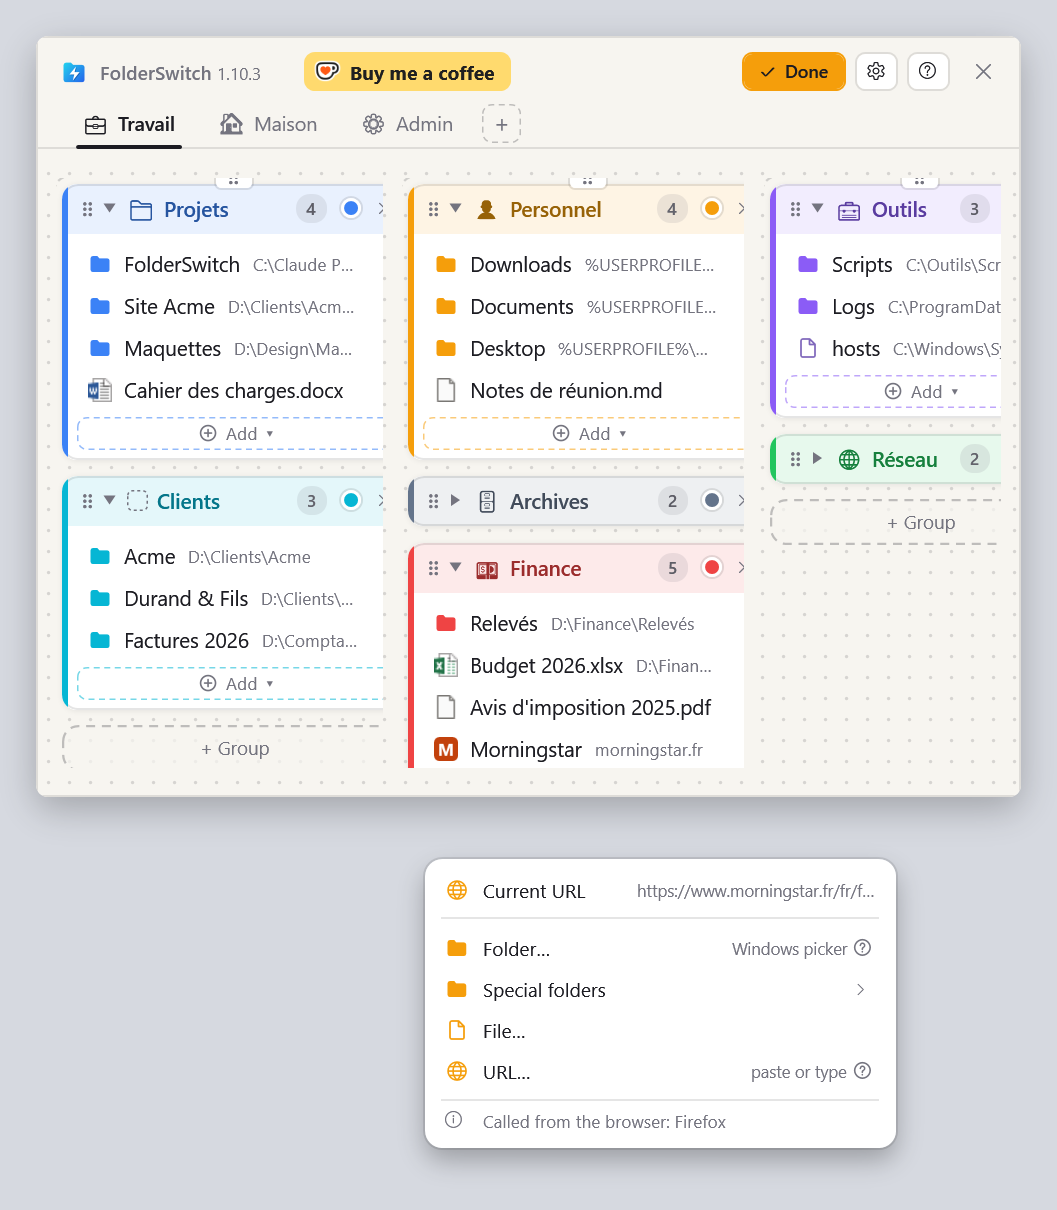
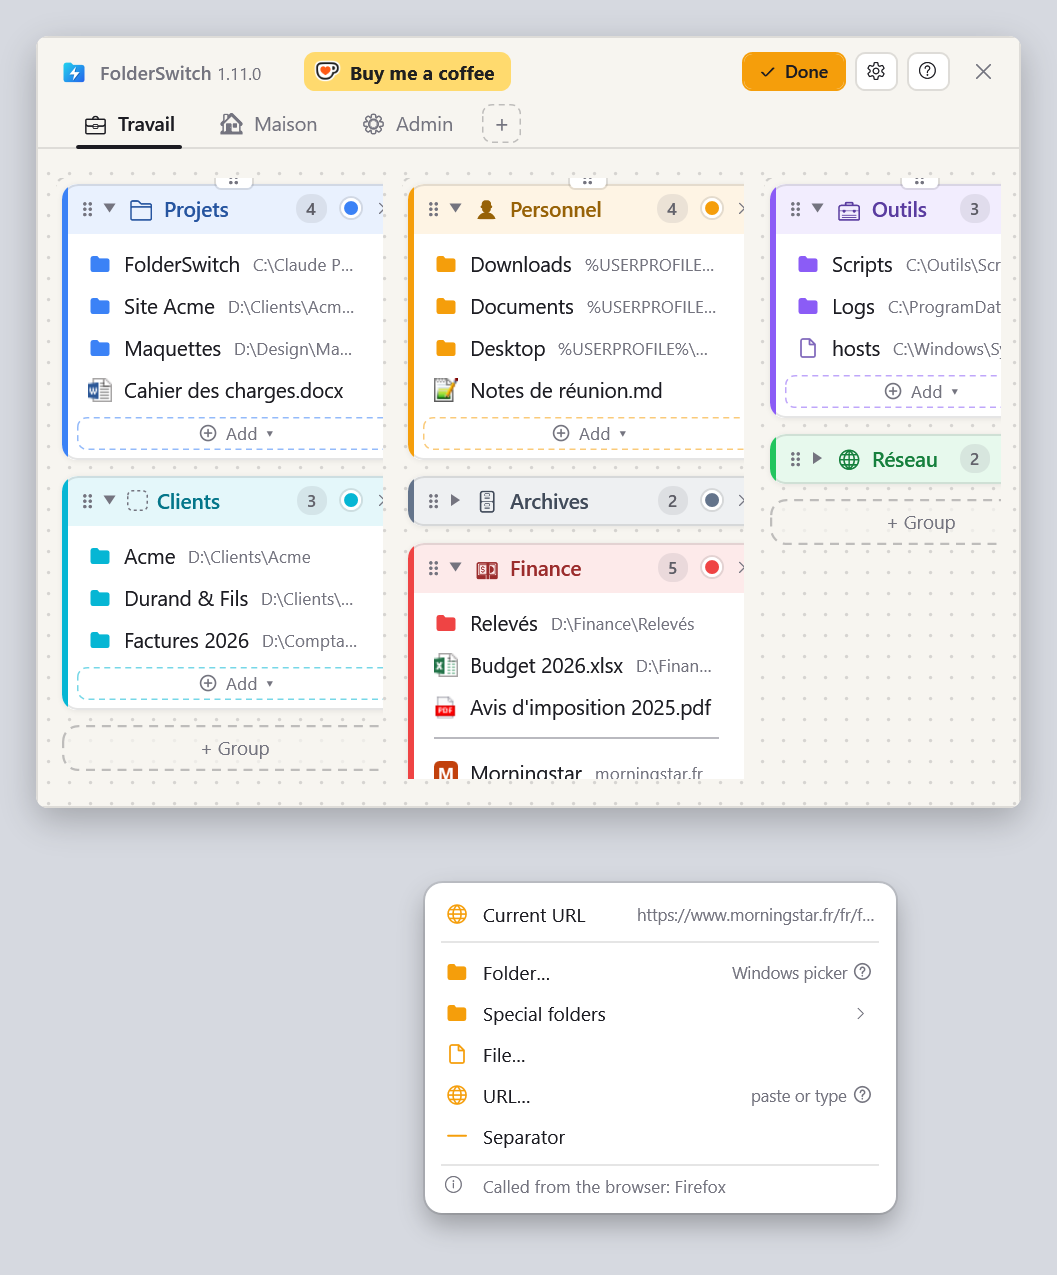
docs: README screenshots and text show separators

diff --git a/README.md b/README.md
@@ -13,7 +13,7 @@
 
 FolderSwitch is a small resident Windows utility that gives instant access to remembered folders and files. A global
 shortcut (Ctrl + Win by default) shows a window that was built once and is only hidden between calls: tabs hold
-columns, columns hold collapsible coloured groups, groups hold folders, files and web sites. One click takes the File Explorer
+columns, columns hold collapsible coloured groups, groups hold folders, files and web sites, which separators can set apart. One click takes the File Explorer
 window, or the Open / Save As / folder-picker dialog, you called it from to that folder. From any other window the
 folder opens in a new Explorer window, a file opens with its associated application and a site in the default browser.
 
@@ -25,14 +25,15 @@ Every version, with its notes, is on the [releases page](https://github.com/kbul
 
 ## Screenshots
 
-The board, as the shortcut shows it (Fluent theme, light):
+The board, as the shortcut shows it (Fluent theme, light). In the Finance group, a separator sets the two sites apart
+from the folder and the files:
 
-![The FolderSwitch window: three tabs and three columns of coloured groups of folders and files, with an emoji icon left of most tab and group names](assets/screenshots/board.png)
+![The FolderSwitch window: three tabs and three columns of coloured groups of folders, files and sites, with an emoji icon left of most tab and group names; in the Finance group a horizontal line separates the sites from the folder and the files](assets/screenshots/board.png)
 
 Edit mode, where tabs, columns, groups and items are added, renamed, recoloured and moved by drag and drop (Cards
 theme, dark):
 
-![Edit mode: Ko-fi's « Buy me a coffee » button after the name in the title bar, grips, colour and delete buttons on every group, an « Add ▾ » button under each group, an empty slot where the group Clients has no icon, « + Group » and « + Column » buttons](assets/screenshots/edit-mode.png)
+![Edit mode: Ko-fi's « Buy me a coffee » button after the name in the title bar, grips, colour and delete buttons on every group, an « Add ▾ » button under each group, an empty slot where the group Clients has no icon, the separator of the group Finance, « + Group » and « + Column » buttons](assets/screenshots/edit-mode.png)
 
 The icon picker, opened from the icon of the Finance group in Edit mode: a filter, « Automatic » (the icon the group's name
 gives), « No icon », the categories, and the emojis the machine's font can draw:
@@ -40,9 +41,10 @@ gives), « No icon », the categories, and the emojis the machine's font can dra
 ![The icon picker of the Finance group: the filter box, Automatic and No icon, a row of eight categories and the grid of smileys](assets/screenshots/icon-picker.png)
 
 The « Add ▾ » menu of a group, called from Firefox: the page shown by the browser comes first, then the folder picker,
-the special folders, the file picker and the address prompt. Called from Explorer, « Current folder » comes first:
+the special folders, the file picker, the address prompt and « Separator », which adds a horizontal line at the end of
+the group. Called from Explorer, « Current folder » comes first:
 
-![The Add menu of the Finance group, called from Firefox: Current URL, Folder…, Special folders, File…, URL…](assets/screenshots/add-menu.png)
+![The Add menu of the Finance group, called from Firefox: Current URL, Folder…, Special folders, File…, URL…, Separator](assets/screenshots/add-menu.png)
 
 The Appearance page of the settings: the mode, the theme, the background colour and the group corners:
 
